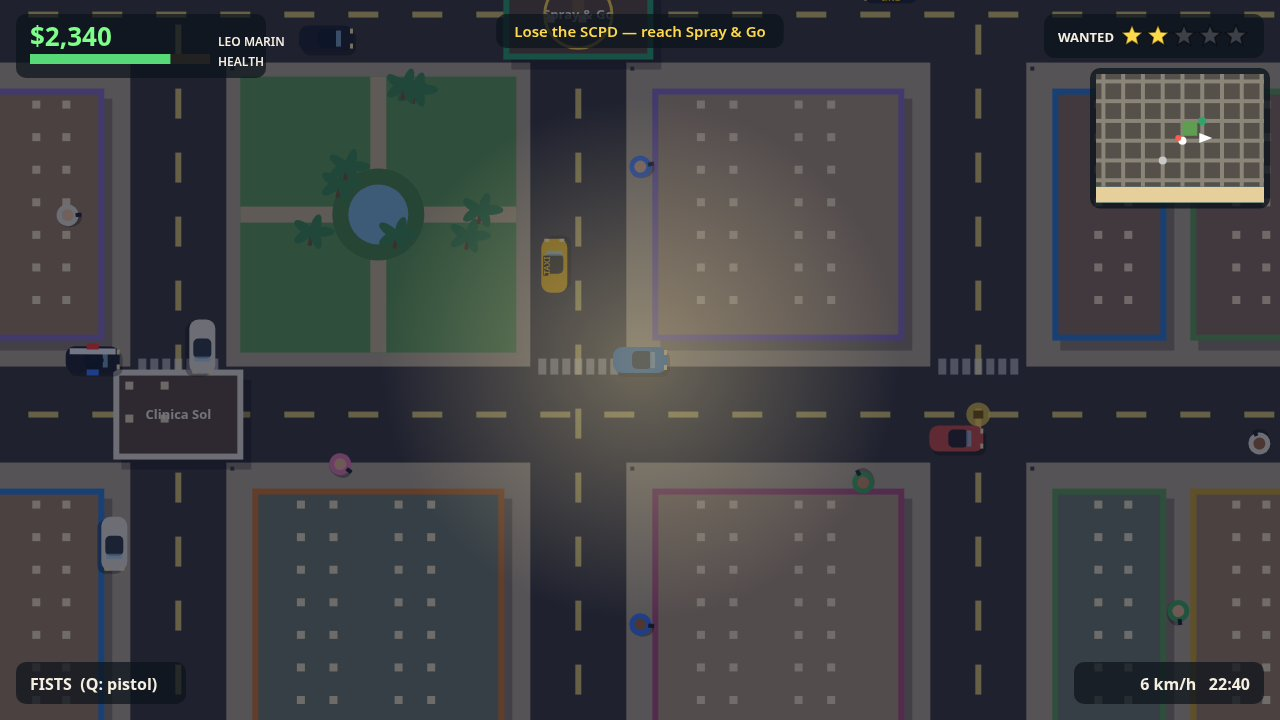
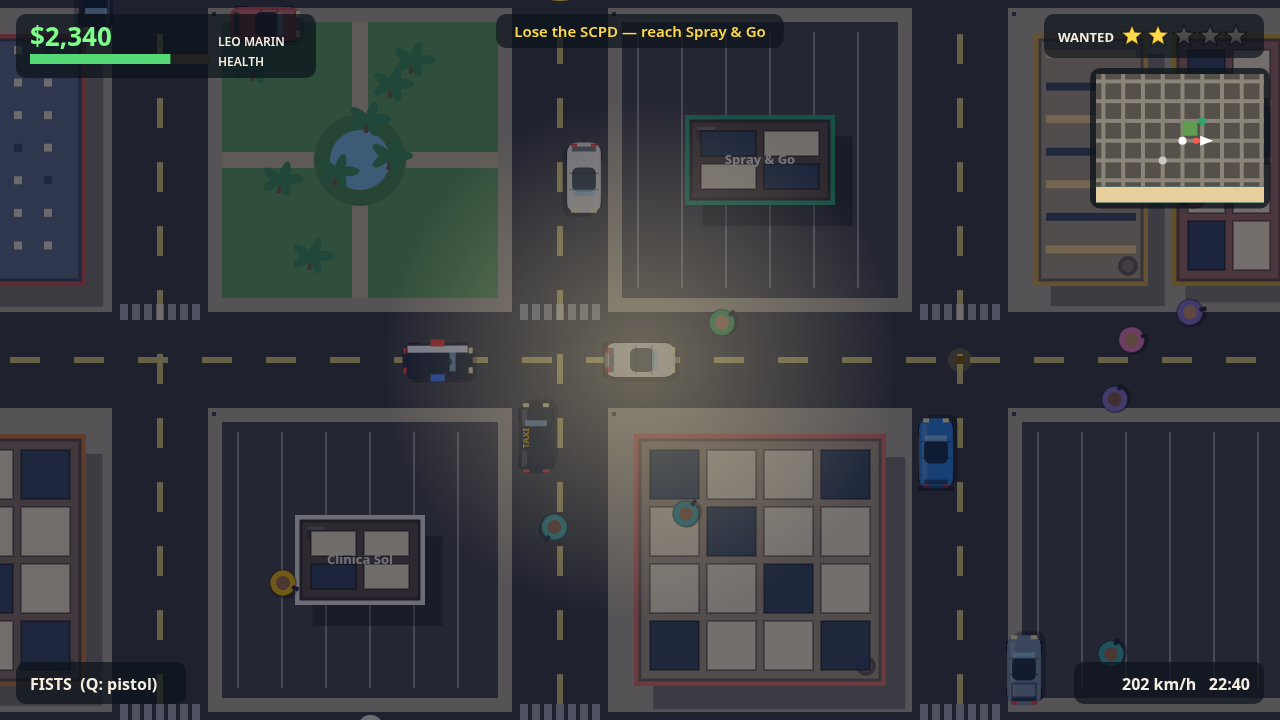
v1.1: labels never draw under HUD panels or at frame edges

diff --git a/game/src/render.js b/game/src/render.js
@@ -220,15 +220,21 @@ export function createRenderer(canvas) {
         }
       }
       if (b.label) {
-        // Only draw the label when its centre is comfortably inside the view:
-        // a half-clipped label at the frame edge reads as a bug.
+        // Only draw the label when its centre is comfortably inside the view
+        // AND clear of the HUD: a label under a panel (or half-clipped at the
+        // frame edge) reads as a bug. The HUD always covers the top band
+        // (cash / objective / wanted), the minimap's corner, and the bottom
+        // band (weapon / speed), so labels never go there.
         const lx = b.x + b.w / 2;
         const ly = b.y + b.h / 2;
-        if (lx < cam.x + 70 || lx > cam.x + VIEW.width - 70 || ly < cam.y + 24 || ly > cam.y + VIEW.height - 24) continue;
+        const sx = lx - cam.x;
+        const sy = ly - cam.y;
+        if (sy < 100 || sy > VIEW.height - 80 || sx < 40 || sx > VIEW.width - 40) continue;
+        if (sx > VIEW.width - 200 && sy < 280) continue; // minimap corner
         ctx.fillStyle = PALETTE.text;
         ctx.font = `700 13px ${FONT}`;
         ctx.textAlign = 'center';
-        ctx.fillText(b.label, lx - cam.x, ly + 4 - cam.y);
+        ctx.fillText(b.label, sx, sy + 4);
         ctx.textAlign = 'left';
       }
     }
